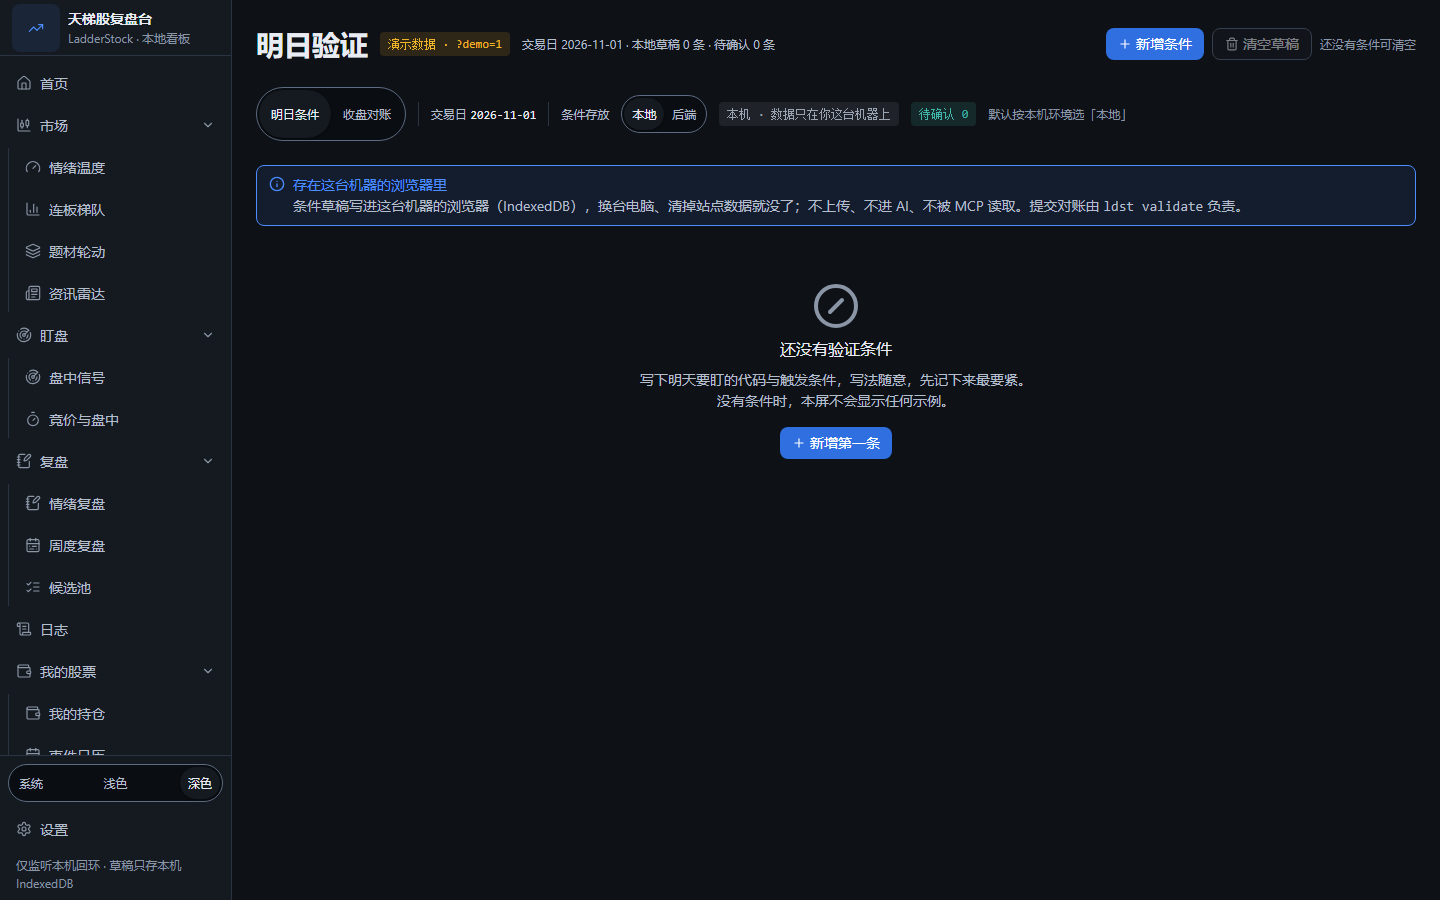
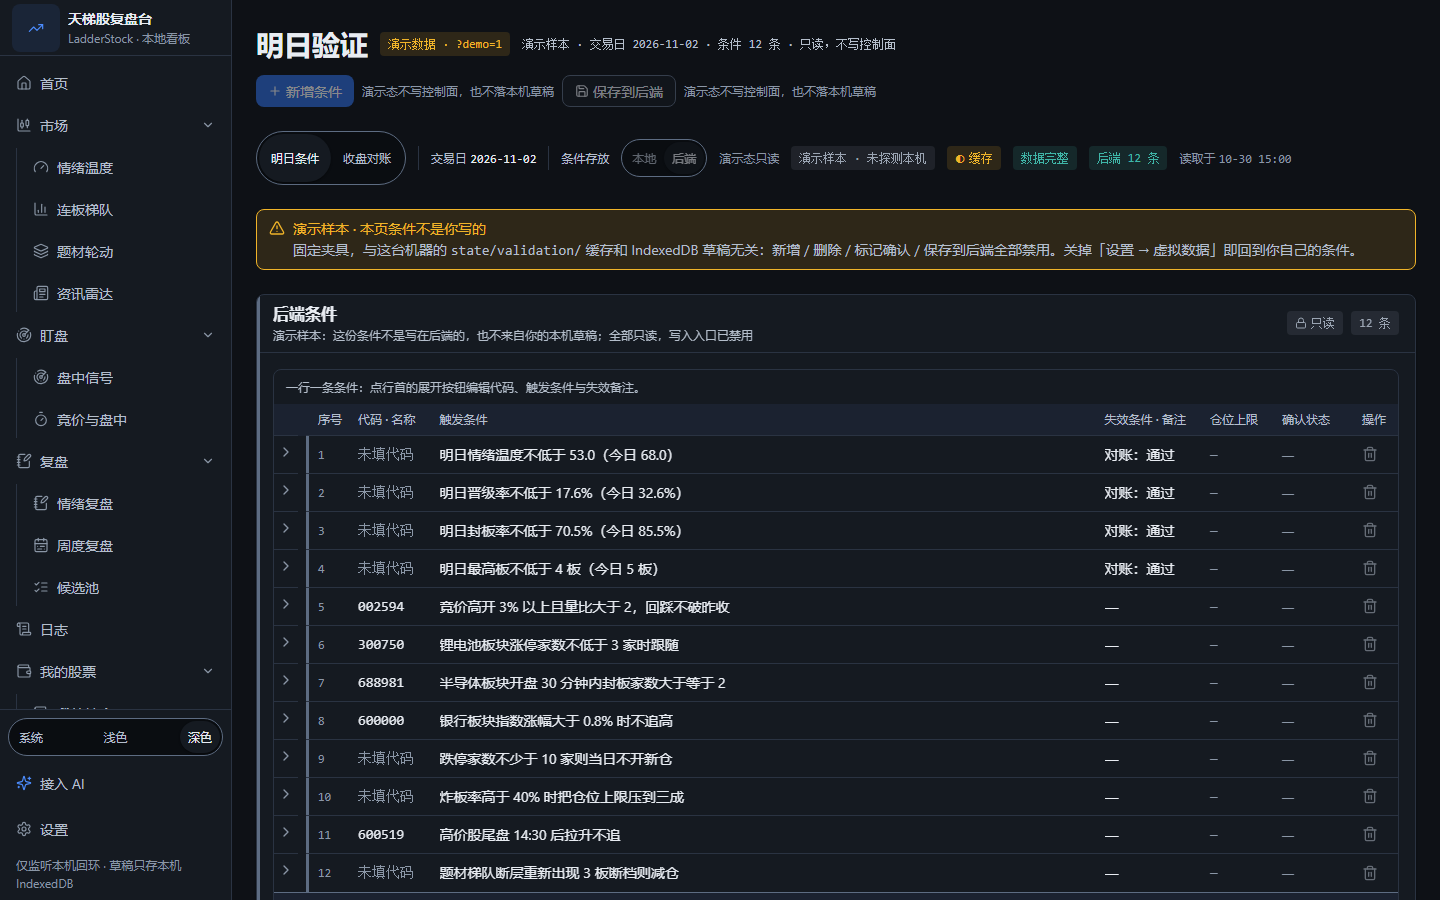
refactor(ui): QUOT-332 明日验证条件表体收口到 C-09 DataTable
- 删除 ROW_GRID 网格与手写 sticky 表头/数据行，「条件校验项」整表交给 DataTable 渲染
- 行内编辑改挂 expandable（label/defaultExpanded/render），合计与确认计数改挂 summaryRow
- 序号/代码/仓位上限保留 numeric（.ldst-num）+ 左对齐，操作列右对齐基线不变
- 列宽落 §7.3 刻度：56 / 176 / 剩余 / 208 / 112 / 88 / 88
- 展开过渡由 C-09 内部 duration-fast(120ms) 承载，不新增 is-animating 豁免
- 数据链路、接口契约、Layout.tsx NAV_SECTIONS 零改动；仅改 ValidateScreen.tsx 与四张 after 截图

验证：check:ui 6/6 PASS、npm run build 通过、npm test 38 files / 364 tests PASS；
1440×900 暗/亮截图横向溢出 0 项；headless Chrome 取证明确认/编辑/展开回归正常。

diff --git a/frontend/src/screens/ValidateScreen.tsx b/frontend/src/screens/ValidateScreen.tsx
@@ -1,5 +1,5 @@
 import { useEffect, useMemo, useState, type ReactNode } from 'react'
-import { Check, CircleSlash, ClipboardCheck, Lock, Plus, Save, Trash2, X } from 'lucide-react'
+import { Check, CircleSlash, Lock, Plus, Save, Trash2, X } from 'lucide-react'
 
 import { useForcedState, resolveState, type PageState } from '../lib/pageState'
 import { MISSING, formatInt, formatTime } from '../lib/format'
@@ -189,10 +189,6 @@ function signatureOf(rows: Array<{ code: string; trigger: string }>): string {
     .sort()
     .join('\n')
 }
-
-/** 列宽走 §7.3 的 {56, 88} 档；长文本列吃剩余宽度。 */
-const ROW_GRID =
-  'grid-cols-[3.5rem_minmax(0,1fr)_minmax(0,1.5fr)_minmax(0,1.5fr)_5.5rem_5.5rem_5.5rem]'
 
 /**
  * 首屏密度目标（UI-SPEC §11.0 + PRD §5.2）：1440×900 下第一屏要同时看到 ≥12 行。
@@ -644,6 +640,8 @@ export default function ValidateScreen() {
   // ---- 条件表 ----
   const renderTable = (items: ConditionRow[], sourceOfRows: ValidationSource, locked: boolean) => {
     const isLocal = sourceOfRows === 'local'
+    // 本表没有可排序列，`rows` 的展示顺序就是 items 的顺序，序号按它算。
+    const orderOf = new Map(items.map((row, index) => [row.key, index + 1]))
     return (
       <SectionCard
         title={isLocal ? '条件草稿' : '后端条件'}
@@ -665,160 +663,195 @@ export default function ValidateScreen() {
           </>
         }
       >
-        <div className="overflow-auto" style={{ maxHeight: 'calc(100vh - 280px)' }}>
-          <div className="min-w-table-min">
-            <div
-              className={`sticky top-0 z-sticky grid h-control ${ROW_GRID} items-center gap-3 border-b border-border bg-surface-2 px-3 text-caption font-medium text-text-secondary`}
-            >
-              <span>序号</span>
-              <span>代码 · 名称</span>
-              <span>触发条件</span>
-              <span>失效条件 · 备注</span>
-              <span>仓位上限</span>
-              <span>确认状态</span>
-              <span className="text-right">操作</span>
-            </div>
-
-            {items.map((row, index) => {
+        {/* 行内编辑的唯一开关是屏侧的 `expanded`：新增即展开、切存放位置或删掉正在编辑的那条即收起。
+            C-09 的展开态是组件内部 state，`defaultExpanded` 只在挂载时生效，所以外部改动靠 `key` 重挂；
+            点行首箭头走的是内部态，不会重挂，滚动位置与过渡都不被打断。 */}
+        <DataTable<ConditionRow>
+          key={`${sourceOfRows}-${expanded ?? ''}`}
+          rows={items}
+          rowKey={(row) => row.key}
+          caption="一行一条条件：点行首的展开按钮编辑代码、触发条件与失效备注。"
+          maxHeight="calc(100vh - 280px)"
+          expandable={{
+            label: '编辑该条条件',
+            defaultExpanded: expanded ? [expanded] : [],
+            render: (row) => {
               const fieldId = `condition-${row.key}`
-              const isOpen = expanded === row.key
               return (
-                <div key={row.key} className="border-b border-border last:border-b-0">
-                  {/* §11.3 行高就是 h-row（38px）token：`py-2` 会让操作按钮把行撑到 44px，
-                      12 行多出 72px 正好把首屏最后一行推到折叠线以下。 */}
-                  <div
-                    className={`relative grid min-h-row ${ROW_GRID} items-center gap-3 px-3 py-1 transition-colors duration-fast ease-ldst hover:bg-surface-3`}
-                    aria-describedby={row.confirmed === false ? `${fieldId}-pending` : undefined}
-                  >
-                    <span
-                      aria-hidden="true"
-                      className={`absolute inset-y-0 left-0 w-status-bar ${
-                        row.confirmed === null ? 'bg-border-strong' : row.confirmed ? 'bg-ok' : 'bg-warn'
-                      }`}
+                <div className="grid gap-4 desk:grid-cols-12">
+                  <Field label="代码 / 标的" htmlFor={`${fieldId}-code`} className="desk:col-span-3" hint="六位代码或简称，可留空（纯情绪条件）。">
+                    <Input
+                      id={`${fieldId}-code`}
+                      type="text"
+                      value={row.code}
+                      placeholder="如 000001"
+                      disabled={locked}
+                      onChange={(event) => updateRow(row, { code: event.target.value })}
                     />
-                    <span className="ldst-num text-caption text-text-muted">{index + 1}</span>
-                    <span className="min-w-0 truncate text-body text-text" title={row.code || '未填代码'}>
-                      {row.code ? (
-                        <span className="ldst-num">{row.code}</span>
-                      ) : (
-                        <span className="text-text-muted">未填代码</span>
-                      )}
-                    </span>
-                    <span className="min-w-0 truncate text-body text-text-secondary" title={row.trigger || undefined}>
-                      {row.trigger || MISSING}
-                    </span>
-                    <span
-                      className="min-w-0 truncate text-body text-text-secondary"
-                      title={
-                        row.note ??
-                        '后端读投影不给自由文本备注（server.py:_validation_conditions 只把对账结论写进这一列）'
-                      }
-                    >
-                      {row.note || MISSING}
-                    </span>
-                    <span
-                      className="text-body text-text-muted"
-                      title="草稿结构（stores/validationDraft.ts）不记录仓位上限，用备注承载"
-                    >
-                      {MISSING}
-                    </span>
-                    <span>
-                      {row.confirmed === null ? (
-                        <span className="text-caption text-text-muted" title="后端条件不记录确认状态">
-                          {MISSING}
-                        </span>
-                      ) : row.confirmed ? (
-                        <Badge tone="ok">已确认</Badge>
-                      ) : (
-                        <Badge tone="warn">
-                          <span id={`${fieldId}-pending`}>待确认</span>
-                        </Badge>
-                      )}
-                    </span>
-                    <span className="flex items-center justify-end gap-1">
-                      <IconButton
-                        label={isOpen ? '收起编辑' : '编辑该条'}
-                        aria-expanded={isOpen}
-                        aria-controls={`${fieldId}-editor`}
-                        disabled={locked}
-                        onClick={() => setExpanded(isOpen ? null : row.key)}
-                        icon={<ClipboardCheck className="size-4" aria-hidden="true" />}
-                      />
-                      {isLocal && (
-                        <IconButton
-                          label={row.confirmed ? '取消确认' : '标记确认'}
-                          aria-pressed={row.confirmed === true}
-                          disabled={locked}
-                          onClick={() => toggleConfirmed(row.key)}
-                          icon={
-                            row.confirmed ? (
-                              <X className="size-4" aria-hidden="true" />
-                            ) : (
-                              <Check className="size-4" aria-hidden="true" />
-                            )
-                          }
-                        />
-                      )}
-                      <IconButton
-                        label="删除该条条件"
-                        disabled={locked}
-                        onClick={() => deleteRow(row)}
-                        icon={<Trash2 className="size-4" aria-hidden="true" />}
-                      />
-                    </span>
-                  </div>
-
-                  {isOpen && (
-                    <div
-                      id={`${fieldId}-editor`}
-                      className="grid gap-4 border-t border-border bg-sunken p-4 desk:grid-cols-12"
-                    >
-                      <Field label="代码 / 标的" htmlFor={`${fieldId}-code`} className="desk:col-span-3" hint="六位代码或简称，可留空（纯情绪条件）。">
-                        <Input
-                          id={`${fieldId}-code`}
-                          type="text"
-                          value={row.code}
-                          placeholder="如 000001"
-                          disabled={locked}
-                          onChange={(event) => updateRow(row, { code: event.target.value })}
-                        />
-                      </Field>
-                      <Field label="触发条件" htmlFor={`${fieldId}-trigger`} className="desk:col-span-3" hint="价格 / 量比 / 时间窗口；后端不接受空条件。">
-                        <Input
-                          id={`${fieldId}-trigger`}
-                          type="text"
-                          value={row.trigger}
-                          placeholder="如 竞价高开 3% 以上且量比 > 2"
-                          disabled={locked}
-                          invalid={!row.trigger.trim()}
-                          onChange={(event) => updateRow(row, { trigger: event.target.value })}
-                        />
-                      </Field>
-                      <Field
-                        label="失效条件 · 备注"
-                        htmlFor={`${fieldId}-note`}
-                        className="desk:col-span-6"
-                        hint={
-                          isLocal
-                            ? '失效条件、仓位上限、备选标的…草稿结构只有这一个自由文本字段。'
-                            : '后端 GET 不回备注（server.py:_validation_conditions 只投影 code / trigger），保存后读回看不到，但会写进文件。'
-                        }
-                      >
-                        <Textarea
-                          id={`${fieldId}-note`}
-                          value={row.note}
-                          placeholder="如 跌破昨收 3% 即失效；仓位不超过 2 成"
-                          disabled={locked}
-                          onChange={(event) => updateRow(row, { note: event.target.value })}
-                        />
-                      </Field>
-                    </div>
-                  )}
+                  </Field>
+                  <Field label="触发条件" htmlFor={`${fieldId}-trigger`} className="desk:col-span-3" hint="价格 / 量比 / 时间窗口；后端不接受空条件。">
+                    <Input
+                      id={`${fieldId}-trigger`}
+                      type="text"
+                      value={row.trigger}
+                      placeholder="如 竞价高开 3% 以上且量比 > 2"
+                      disabled={locked}
+                      invalid={!row.trigger.trim()}
+                      onChange={(event) => updateRow(row, { trigger: event.target.value })}
+                    />
+                  </Field>
+                  <Field
+                    label="失效条件 · 备注"
+                    htmlFor={`${fieldId}-note`}
+                    className="desk:col-span-6"
+                    hint={
+                      isLocal
+                        ? '失效条件、仓位上限、备选标的…草稿结构只有这一个自由文本字段。'
+                        : '后端 GET 不回备注（server.py:_validation_conditions 只投影 code / trigger），保存后读回看不到，但会写进文件。'
+                    }
+                  >
+                    <Textarea
+                      id={`${fieldId}-note`}
+                      value={row.note}
+                      placeholder="如 跌破昨收 3% 即失效；仓位不超过 2 成"
+                      disabled={locked}
+                      onChange={(event) => updateRow(row, { note: event.target.value })}
+                    />
+                  </Field>
                 </div>
               )
-            })}
-          </div>
-        </div>
+            },
+          }}
+          summaryRow={(all) =>
+            isLocal ? (
+              <span className="text-caption text-text-secondary">
+                合计 <span className="ldst-num text-text">{formatInt(all.length)}</span> 条 · 待确认{' '}
+                <span className="ldst-num text-text">
+                  {formatInt(all.filter((row) => row.confirmed === false).length)}
+                </span>{' '}
+                条 · 已确认{' '}
+                <span className="ldst-num text-text">
+                  {formatInt(all.filter((row) => row.confirmed === true).length)}
+                </span>{' '}
+                条
+              </span>
+            ) : (
+              <span className="text-caption text-text-secondary">
+                合计 <span className="ldst-num text-text">{formatInt(all.length)}</span> 条 ·
+                后端条件不记录确认状态，「待确认」只对本地草稿成立
+              </span>
+            )
+          }
+          columns={[
+            {
+              key: 'index',
+              header: '序号',
+              width: '56px',
+              numeric: true,
+              align: 'left',
+              // §3.3 的「左侧竖条标未确认」：C-09 没有行内条插槽，画在第一个数据格左沿（展开列之后）。
+              className: 'relative',
+              render: (row) => (
+                <>
+                  <span
+                    aria-hidden="true"
+                    className={`absolute inset-y-0 left-0 w-status-bar ${
+                      row.confirmed === null ? 'bg-border-strong' : row.confirmed ? 'bg-ok' : 'bg-warn'
+                    }`}
+                  />
+                  <span className="text-caption text-text-muted">{orderOf.get(row.key)}</span>
+                </>
+              ),
+            },
+            {
+              key: 'code',
+              header: '代码 · 名称',
+              // §7.3：代码档 88 装不下「未填代码」的说明文案，取名称档 176。
+              width: '176px',
+              numeric: true,
+              align: 'left',
+              truncate: true,
+              cellTitle: (row) => row.code || '未填代码',
+              render: (row) => (row.code ? row.code : <span className="text-text-muted">未填代码</span>),
+            },
+            {
+              key: 'trigger',
+              header: '触发条件',
+              truncate: true,
+              cellTitle: (row) => row.trigger,
+              render: (row) => row.trigger || MISSING,
+            },
+            {
+              key: 'note',
+              header: '失效条件 · 备注',
+              // §7.3 最大档：备注是自由文本，给固定 208 后由「触发条件」吃剩余宽度（它是本屏主内容）。
+              width: '208px',
+              truncate: true,
+              cellTitle: (row) =>
+                row.note ||
+                '后端读投影不给自由文本备注（server.py:_validation_conditions 只把对账结论写进这一列）',
+              render: (row) => row.note || MISSING,
+            },
+            {
+              key: 'position',
+              header: '仓位上限',
+              width: '112px',
+              numeric: true,
+              align: 'left',
+              render: () => (
+                <span className="text-text-muted" title="草稿结构（stores/validationDraft.ts）不记录仓位上限，用备注承载">
+                  {MISSING}
+                </span>
+              ),
+            },
+            {
+              key: 'confirmed',
+              header: '确认状态',
+              width: '88px',
+              render: (row) =>
+                row.confirmed === null ? (
+                  <span className="text-caption text-text-muted" title="后端条件不记录确认状态">
+                    {MISSING}
+                  </span>
+                ) : row.confirmed ? (
+                  <Badge tone="ok">已确认</Badge>
+                ) : (
+                  <Badge tone="warn">待确认</Badge>
+                ),
+            },
+            {
+              key: 'actions',
+              header: '操作',
+              width: '88px',
+              align: 'right',
+              render: (row) => (
+                <span className="flex items-center justify-end gap-1">
+                  {isLocal && (
+                    <IconButton
+                      label={row.confirmed ? '取消确认' : '标记确认'}
+                      aria-pressed={row.confirmed === true}
+                      disabled={locked}
+                      onClick={() => toggleConfirmed(row.key)}
+                      icon={
+                        row.confirmed ? (
+                          <X className="size-4" aria-hidden="true" />
+                        ) : (
+                          <Check className="size-4" aria-hidden="true" />
+                        )
+                      }
+                    />
+                  )}
+                  <IconButton
+                    label="删除该条条件"
+                    disabled={locked}
+                    onClick={() => deleteRow(row)}
+                    icon={<Trash2 className="size-4" aria-hidden="true" />}
+                  />
+                </span>
+              ),
+            },
+          ]}
+        />
 
         <p className="mt-3 text-caption text-text-muted">
           「仓位上限」列显示 {MISSING}：两种来源的结构都不记录该字段（本轮不改 store），需要时写进「失效条件 · 备注」。
